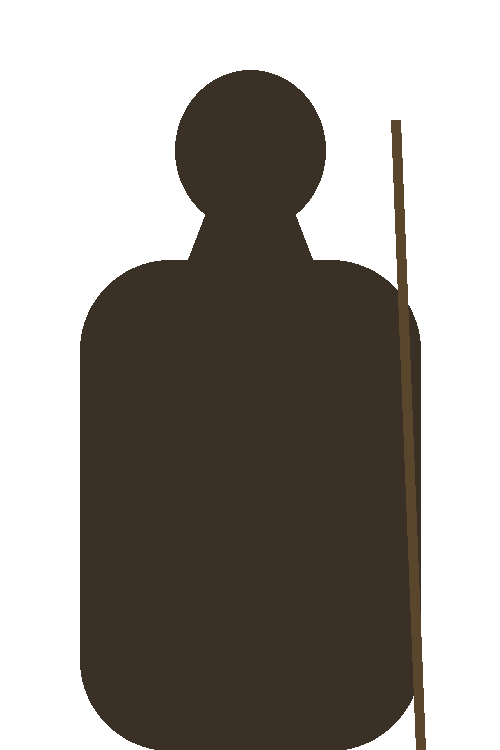
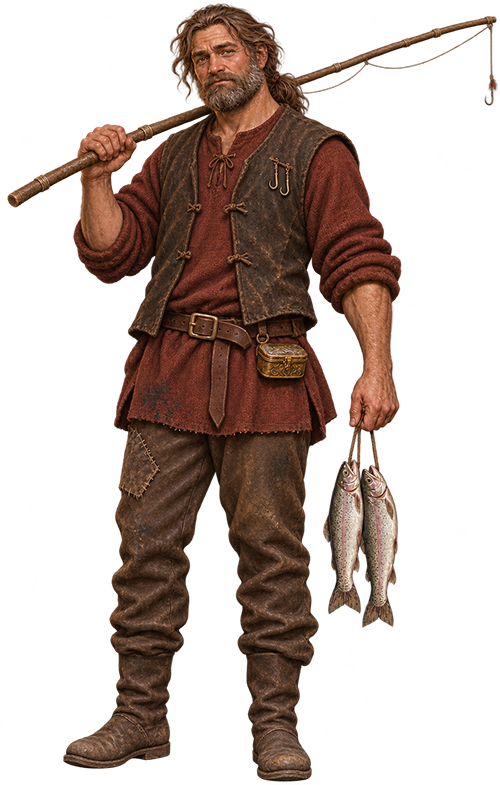
Ewan Hartwood's real art; Luck removed (fishing keeps starting odds, loot/chest gold unscaled, the D3 well just heals)
Claude-Session: https://claude.ai/code/session_014Hg99m5XhcQTxVAKJWtn27

diff --git a/js/main.js b/js/main.js
@@ -31,17 +31,14 @@ import * as battle from './battle.js';
 
 // Attack/Defense/Speed start at 1/1/1 (Danny's spec) — real combat stats.
 // Speed drives battle.js's turn order + the player's initiative chance
-// (Speed 1 -> 50% to act first, 2 -> 75%, 3 -> 100%). Luck is a NON-COMBAT
-// probability bonus (2026-07-31 rework — see luckChance() below): +10% per
-// point to fishing's rare-catch odds and to battle loot (gold haul + item
-// drop chance). Luck starts at 1 (2026-09-11, Danny — was 0), raised further
-// only by the D3 well's one-time coin-toss (+1 Luck, to 2) — still the only
-// way to raise it as of this date.
+// (Speed 1 -> 50% to act first, 2 -> 75%, 3 -> 100%). Luck was REMOVED from
+// the game on 2026-11-17 (Danny: it wasn't doing much); fishing keeps the odds
+// a starting player had, loot and chest gold have no bonus any more.
 // Level/XP removed 2026-07-22 (Danny) — the game has no experience/leveling
 // loop; progression is gear-driven (weapons/armor + vitality potions).
 const stats = {
   health: 5, healthMax: 5, magic: 0, magicMax: 5, gold: 0,
-  attack: 1, defense: 1, speed: 1, luck: 1,
+  attack: 1, defense: 1, speed: 1,
 };
 // The canonical fresh-start stats, used to reset on New Game (2026-07-22).
 const NEW_GAME_STATS = { ...stats };
@@ -183,23 +180,9 @@ function equipmentBonus(field) {
     return sum + (ITEMS[id]?.[field] || 0);
   }, 0);
 }
-// Attack/Defense scores are base stat + equipped gear only. Luck is NO LONGER a
-// combat modifier (2026-07-31, Danny) — it now only affects non-combat
-// PERCENTAGE-CHANCE mechanics (fishing catch odds, battle loot). See luckChance().
+// Attack/Defense scores are base stat + equipped gear only.
 function effectiveAttack() { return stats.attack + equipmentBonus('attackBonus'); }
 function effectiveDefense() { return stats.defense + equipmentBonus('defenseBonus'); }
-// Luck as a probability bonus: +10% (0.10) per point, applied to EVERY
-// non-combat chance (2026-10-20, Danny — audited):
-//   - fishing: rare catches (boot, Moonscale Trout, Crimson Sailback) get +10
-//     percentage points per Luck point (rollCatch);
-//   - enemy loot: +10 points per Luck point on every item's drop chance, and
-//     enemy gold x(1 + 0.10*Luck) (computeBattleRewards);
-//   - chest gold rolled from a {min,max} range: x(1 + 0.10*Luck) (World.goldLuck).
-// Fixed amounts (a chest's set gold, hidden coin glints, quest rewards) aren't
-// chance rolls and stay as designed. Combat rolls (to-hit, damage, initiative,
-// enchant procs) never use Luck.
-function luckChance() { return stats.luck * 0.10; }
-World.goldLuck = luckChance;
 // Speed including gear (leather boots' speedBonus, 2026-07-26). Capped at 3
 // (the movement/initiative curves top out there). Drives BOTH overworld
 // movement (moveMultForSpeed) and battle initiative (playerInitiativeChance).
@@ -209,11 +192,11 @@ function effectiveSpeed() { return Math.min(3, stats.speed + equipmentBonus('spe
 // panel used to show the raw base stats, so a player wearing +1 armor still saw
 // "Defense 1". Combat already uses the effective values (effectiveAttack/Defense
 // /Speed) — this just makes the display agree. Shows the effective total plus a
-// "(+N)" gear contribution. Luck is unchanged (no gear affects it yet).
+// "(+N)" gear contribution.
 function refreshStatsPanel() {
   const eA = effectiveAttack(), eD = effectiveDefense(), eS = effectiveSpeed();
   ui.updateStatsPanel({
-    attack: eA, defense: eD, speed: eS, luck: stats.luck,
+    attack: eA, defense: eD, speed: eS,
     attackBonus: eA - stats.attack, defenseBonus: eD - stats.defense, speedBonus: eS - stats.speed,
   });
   refreshDamagePanel(); // 2026-09-11: keep the new Damage subsection in sync too
@@ -1020,7 +1003,7 @@ async function boot() {
         inventory: inventory.map((e) => ({ ...e })),
         equipment: { ...equipment },
         quests: quests.map((q) => ({ ...q })),
-        flags: { campQuestDone, campHostile, campTollTier, gafferHappy, thrumhornFed, clucksworthFed, eggathaFed, orrisRescued, orrisDeparted, wellCoinThrown, wellDrinks, vegetableDeliveredToTavern, mirelleStage, mirelleOutcome, calderToldStory, calderToldDangers, maraMet, maraToldTruth, lilyGullThanked, magicRevealed, maraHollowmastRescued, lockboxAcceptedFrom, lockboxGivenTo , ferrySide, lakewardenPaid, arjunMet, adeMet, nkemiStone, nkemiStaff, visitedTowns: [...visitedTowns] },
+        flags: { campQuestDone, campHostile, campTollTier, gafferHappy, thrumhornFed, clucksworthFed, eggathaFed, orrisRescued, orrisDeparted, wellDrinks, vegetableDeliveredToTavern, mirelleStage, mirelleOutcome, calderToldStory, calderToldDangers, maraMet, maraToldTruth, lilyGullThanked, magicRevealed, maraHollowmastRescued, lockboxAcceptedFrom, lockboxGivenTo , ferrySide, lakewardenPaid, arjunMet, adeMet, nkemiStone, nkemiStaff, visitedTowns: [...visitedTowns] },
         caveReturn, // where to exit to if saved inside a cave/dungeon
         worlds: snapshotWorlds(),
       };
@@ -1120,7 +1103,7 @@ async function boot() {
     quests.length = 0;
     campTollPaid = false; campEntered = false; campQuestDone = false;
     campHostile = false; campEntryGate = null; campTollTier = 0;
-    gafferHappy = false; thrumhornFed = false; clucksworthFed = false; eggathaFed = false; orrisRescued = false; orrisDeparted = false; orrisLeaving = false; wellCoinThrown = false; wellDrinks = 0; vegetableDeliveredToTavern = false; mirelleStage = 1; mirelleOutcome = null;
+    gafferHappy = false; thrumhornFed = false; clucksworthFed = false; eggathaFed = false; orrisRescued = false; orrisDeparted = false; orrisLeaving = false; wellDrinks = 0; vegetableDeliveredToTavern = false; mirelleStage = 1; mirelleOutcome = null;
     ferrySide = 'mainland'; // the C3 raft starts moored on the near shore
     lakewardenPaid = false;
     calderToldStory = false; calderToldDangers = false; maraMet = false; maraToldTruth = null;
@@ -1157,6 +1140,7 @@ async function boot() {
     // shape changes and old saves get cleanly rejected instead.
     if (data.v !== SAVE_VERSION) return false;
     Object.assign(stats, NEW_GAME_STATS, data.stats || {});
+    delete stats.luck; // Luck was removed 2026-11-17; older saves still carry it
     inventory.length = 0; (data.inventory || []).forEach((e) => inventory.push({ ...e }));
     for (const k of Object.keys(equipment)) equipment[k] = null;
     Object.assign(equipment, data.equipment || {});
@@ -1164,7 +1148,7 @@ async function boot() {
     const f = data.flags || {};
     campQuestDone = !!f.campQuestDone; campHostile = !!f.campHostile;
     campTollTier = f.campTollTier || 0;
-    gafferHappy = !!f.gafferHappy; thrumhornFed = !!f.thrumhornFed; clucksworthFed = !!f.clucksworthFed; eggathaFed = !!f.eggathaFed; orrisRescued = !!f.orrisRescued; orrisDeparted = !!f.orrisDeparted; orrisLeaving = false; wellCoinThrown = !!f.wellCoinThrown;
+    gafferHappy = !!f.gafferHappy; thrumhornFed = !!f.thrumhornFed; clucksworthFed = !!f.clucksworthFed; eggathaFed = !!f.eggathaFed; orrisRescued = !!f.orrisRescued; orrisDeparted = !!f.orrisDeparted; orrisLeaving = false;
     ferrySide = f.ferrySide === 'island' ? 'island' : 'mainland';
     lakewardenPaid = !!f.lakewardenPaid;
     wellDrinks = f.wellDrinks || 0;
@@ -1450,10 +1434,6 @@ async function boot() {
   // the player, teaching Flee + the give-up-when-far mechanic (2026-07-26).
   let creatureFleeHintShown = false;
 
-  // The D3 well's coin-for-luck offer is one-time per session (like gafferHappy,
-  // not persisted). Tossing a coin for +1 Luck can only happen once. See
-  // openWellDialog().
-  let wellCoinThrown = false;
   // Drinking is limited: the well runs dry after WELL_MAX_DRINKS drinks
   // (2026-07-28, Danny). Persisted in the save flags so the total carries across
   // sessions ("after drinking 5 times in the game").
@@ -5609,16 +5589,12 @@ async function boot() {
   function computeBattleRewards(enemies) {
     let gold = 0;
     const items = {};
-    // LUCK (2026-07-31, Danny): +10% per point to the gold haul AND to every
-    // item's drop chance (a non-combat probability bonus — luck no longer touches
-    // combat rolls). luckChance() = luck*0.10.
-    const luck = luckChance();
     for (const e of enemies) {
       const drops = ENEMIES[e.id]?.drops;
       if (!drops) continue;
-      if (drops.gold) gold += Math.round(randInt(drops.gold.min, drops.gold.max) * (1 + luck));
+      if (drops.gold) gold += randInt(drops.gold.min, drops.gold.max);
       for (const l of drops.loot || []) {
-        const chance = Math.min(1, (l.chance ?? 1) + luck);
+        const chance = Math.min(1, l.chance ?? 1);
         if (Math.random() <= chance) items[l.id] = (items[l.id] || 0) + (l.qty || 1);
       }
     }
@@ -5696,14 +5672,11 @@ async function boot() {
   };
 
   // The D3 well: a dialogue-style window (Water well.png in the portrait slot,
-  // name "Well") offering a repeatable drink (+1 HP) and a one-time coin toss
-  // (+1 Luck) that costs 1 gold. State-built like Gaffer/Chief — the coin option
-  // drops out of the response list once used (wellCoinThrown). The onResponse
-  // callback returns true to keep the window open after drinking/tossing so the
-  // player can act again; 'Leave.' returns falsy and closes it. Tossing with an
-  // empty purse plays the denied sound and leaves the offer standing.
+  // name "Well") offering a drink (+1 HP) until it runs dry after
+  // WELL_MAX_DRINKS. The coin toss for +1 Luck was removed with Luck
+  // (2026-11-17). onResponse returns true to keep the window open after a
+  // drink; 'Leave.' returns falsy and closes it.
   const WELL_LINE = 'The old well sits cool and still, its water dark and deep beneath the mossy stones.';
-  const WELL_COIN_COST = 1;
   const WELL_MAX_DRINKS = 5; // the well runs dry after this many drinks (2026-07-28)
   // Readable headstones (B1's graveyard, 2026-11-16): an interactable with
   // `headstone: true` + `inscription` opens a text-only window with the
@@ -5721,7 +5694,6 @@ async function boot() {
       const acts = [];
       // Drinking is offered only until the well runs dry.
       if (wellDrinks < WELL_MAX_DRINKS) { responses.push('Take a drink.'); acts.push('drink'); }
-      if (!wellCoinThrown) { responses.push('Throw a coin in.'); acts.push('coin'); }
       responses.push('Leave.'); acts.push('leave');
       return { responses, acts };
     };
@@ -5752,29 +5724,6 @@ async function boot() {
         }
         ({ responses, acts } = buildActs());
         ui.updateDialogContent({ line, responses });
-        return true;
-      }
-      if (act === 'coin') {
-        if (stats.gold < WELL_COIN_COST) {
-          audio.sfx(audio.SFX.denied);
-          ({ responses, acts } = buildActs());
-          ui.updateDialogContent({
-            line: 'You reach for a coin — but your purse is empty. The well keeps its favor for now.',
-            responses,
-          });
-          return true;
-        }
-        // Set the flag + luck BEFORE spending — spendGold's autosave then
-        // captures them, so a Continue can't re-toss for another Luck point.
-        wellCoinThrown = true;
-        stats.luck += 1;
-        spendGold(WELL_COIN_COST); // deducts 1 gold + plays the coin clink (+ autosave)
-        refreshStatsPanel();
-        ({ responses, acts } = buildActs());
-        ui.updateDialogContent({
-          line: 'You flip a coin into the dark. A faint plink echoes up — and a strange sense of fortune settles over you. (Luck +1.)',
-          responses,
-        });
         return true;
       }
       return; // Leave — falsy closes the window
@@ -5907,56 +5856,23 @@ async function boot() {
     if (spot) startFishing(spot);
   }
 
-  // Weighted catch table (2026-07-16, Danny's odds). LUCK raises the Moonscale
-  // Trout chance by +10% per point (2026-07-31, Danny): base 10% → 20% at Luck 1,
-  // 30% at Luck 2, and so on (capped at 70%). Roll the Moonscale first at that
-  // boosted chance; otherwise fall through to the ordinary catches in their
-  // original 50:30:10 weighting.
-  // Reworked 2026-10-10 (Danny: nobody was ever catching a boot). The boot
-  // used to be the last slice of the ORDINARY table, AFTER the luck-boosted
-  // Moonscale roll — so it was only ~8.9% at Luck 1 and every point of Luck
-  // shaved it further (7.8% at Luck 2). With bait capped at a handful per
-  // playthrough, about half of players never saw one. Now the boot is rolled
-  // FIRST at a flat BOOT_CHANCE that Luck never touches; Luck only trades
-  // ordinary fish for the Moonscale Trout.
-  // Reworked again 2026-10-20 (Danny: Luck should raise the odds of EVERY rare
-  // catch, boots included). The boot is still rolled first, but now at
-  // 5% + 10 points per Luck point (capped 40%), so a starting Luck-1 player
-  // sees exactly the old 15% and each extra point adds 10.
-  //   Luck 1: boot 15%, Moonscale 17%, trout ~43%, bluegill ~26%
-  //   Luck 2: boot 25%, Moonscale ~22.5%, trout ~33%, bluegill ~20%
-  const BOOT_BASE = 5, BOOT_CAP = 40;   // percent at Luck 0, and the ceiling
-  const MOON_BASE = 10, MOON_CAP = 70;
-  function luckPoints() { return luckChance() * 100; } // +10 percentage points per Luck
+  // Weighted catch table (2026-07-16, Danny's odds; Luck removed 2026-11-17,
+  // keeping the odds a starting player had). The old boot is rolled first at
+  // BOOT_CHANCE, then the Moonscale at MOON_CHANCE of what's left, then trout
+  // or bluegill 5:3: boot 15%, Moonscale 17%, trout ~43%, bluegill ~26%.
+  const BOOT_CHANCE = 15, MOON_CHANCE = 20; // percent
   function rollCatch() {
     // A scene can carry its own catch table (2026-10-11: the sea spots in
-    // C1/D1). It replaces the freshwater table entirely. Entries with a
-    // `luckBonus` are rare catches: their `weight` is the percent chance at
-    // Luck 0 and each Luck point adds `luckBonus` percentage points (capped
-    // at `luckCap`, default 70); the other entries share whatever is left in
-    // proportion to their weights (2026-10-20).
+    // C1/D1); it replaces the freshwater table entirely. Plain weighted pick.
     const table = world.scene.fishingCatch;
     if (table && table.length) {
-      const lp = luckChance() * 10; // Luck points
-      const rare = table.filter((e) => e.luckBonus);
-      const common = table.filter((e) => !e.luckBonus);
-      const pct = new Map();
-      let rareTotal = 0;
-      for (const e of rare) { const p = Math.min(e.luckCap ?? 70, e.weight + lp * e.luckBonus); pct.set(e, p); rareTotal += p; }
-      if (rareTotal > 95) { const k = 95 / rareTotal; for (const e of rare) pct.set(e, pct.get(e) * k); rareTotal = 95; }
-      if (rare.length) {
-        const cw = common.reduce((s, e) => s + e.weight, 0) || 1;
-        for (const e of common) pct.set(e, (100 - rareTotal) * e.weight / cw);
-      } else for (const e of table) pct.set(e, e.weight);
-      const total = table.reduce((s, e) => s + pct.get(e), 0);
+      const total = table.reduce((s, e) => s + e.weight, 0);
       let r = Math.random() * total;
-      for (const e of table) { if ((r -= pct.get(e)) < 0) return e.id; }
+      for (const e of table) { if ((r -= e.weight) < 0) return e.id; }
       return table[table.length - 1].id;
     }
-    const boot = Math.min(BOOT_CAP, BOOT_BASE + luckPoints());
-    if (Math.random() * 100 < boot) return 'old_boot';
-    const moon = Math.min(MOON_CAP, MOON_BASE + luckPoints());
-    if (Math.random() * 100 < moon) return 'rare_fish';
+    if (Math.random() * 100 < BOOT_CHANCE) return 'old_boot';
+    if (Math.random() * 100 < MOON_CHANCE) return 'rare_fish';
     return Math.random() * 80 < 50 ? 'trout' : 'bluegill';
   }
 
@@ -5965,13 +5881,12 @@ async function boot() {
   let fishing = false;
   const FISH_MS = 10000;
   // The rarest catch at the current spot (2026-11-17, for Ewan's special bait): in a
-  // scene with its own catch table, the rare (luckBonus) entry with the lowest
+  // scene with its own catch table, the entry with the lowest weight
   // base weight, else the lowest-weight entry; in fresh water, the Moonscale.
   function rarestCatch() {
     const table = world.scene.fishingCatch;
     if (table && table.length) {
-      const pool = table.some((e) => e.luckBonus) ? table.filter((e) => e.luckBonus) : table;
-      return pool.reduce((a, e) => (e.weight < a.weight ? e : a)).id;
+      return table.reduce((a, e) => (e.weight < a.weight ? e : a)).id;
     }
     return 'rare_fish';
   }

diff --git a/index.html b/index.html
@@ -212,15 +212,10 @@
             </section>
             <section class="tab-pane hidden" data-pane="stats">
               <!-- Level/XP removed 2026-07-22 (Danny) — progression is
-                   gear-driven, not level-driven. Luck is SHOWN (2026-07-20)
-                   but is a NON-COMBAT probability bonus as of 2026-07-31 (see
-                   main.js's luckChance()) — +10%/point to every rare fishing
-                   catch, enemy loot and gold, and ranged chest gold; never to
-                   attack/defense rolls. -->
+                   gear-driven, not level-driven. Luck was removed 2026-11-17. -->
               <div class="stat-row"><span class="stat-label">Attack</span><span class="stat-value" id="stat-attack">1</span></div>
               <div class="stat-row"><span class="stat-label">Defense</span><span class="stat-value" id="stat-defense">1</span></div>
               <div class="stat-row"><span class="stat-label">Speed</span><span class="stat-value" id="stat-speed">1</span></div>
-              <div class="stat-row"><span class="stat-label">Luck</span><span class="stat-value" id="stat-luck">1</span></div>
               <!-- Damage subsection (2026-09-11, Danny): what's equipped in
                    each hand (or Unarmed) + its damage, plus Magic (no spell
                    system yet) — populated by ui.js's updateDamagePanel(),

diff --git a/js/world.js b/js/world.js
@@ -144,8 +144,6 @@ export class World {
     return { river: wd.riverDist ? wd.riverDist[i] : Infinity, sea: wd.seaDist ? wd.seaDist[i] : Infinity };
   }
 
-  // main.js sets this to luckChance() (0.10 per Luck point); scales ranged chest gold.
-  static goldLuck = () => 0;
   constructor(canvas, scene, images) {
     this.canvas = canvas;
     this.ctx = canvas.getContext('2d');
@@ -225,10 +223,8 @@ export class World {
       locked: !!c.locked,
       // gold can be a fixed number or a {min,max} range rolled once at world
       // build (persisted via the save snapshot, so it doesn't reroll on revisit).
-      // Luck (2026-10-20): a ranged roll is scaled x(1 + 0.10*Luck), the same
-      // rule as enemy gold; a fixed amount is left as designed.
       gold: (c.gold && typeof c.gold === 'object')
-        ? Math.round((Math.floor(Math.random() * (c.gold.max - c.gold.min + 1)) + c.gold.min) * (1 + World.goldLuck()))
+        ? Math.floor(Math.random() * (c.gold.max - c.gold.min + 1)) + c.gold.min
         : (c.gold || 0),
       items: (c.items || []).map((it) => ({ ...it })),
       emptied: false,

diff --git a/js/data/c1.js b/js/data/c1.js
@@ -856,14 +856,11 @@ export default {
     { x: 595, y: 2751 },
   ],
   // Saltwater catch table (2026-10-11, Danny): every cast here lands a sea
-  // bass (75%) or a crimson sailback (25%) at Luck 1 — no boot, no Moonscale.
-  // Read by main.js's rollCatch.
-  // Luck-scaled (2026-10-20, Danny): the sailback's weight is its chance at
-  // Luck 0 (15%) and each Luck point adds 10 points, so a starting Luck-1
-  // player still sees 75/25, Luck 2 sees 65/35. See main.js's rollCatch.
+  // bass (75%) or a crimson sailback (25%), no boot, no Moonscale. Weights are
+  // percentages (Luck removed 2026-11-17). Read by main.js's rollCatch.
   fishingCatch: [
-    { id: 'sea_bass', weight: 85 },
-    { id: 'crimson_sailback', weight: 15, luckBonus: 10 },
+    { id: 'sea_bass', weight: 75 },
+    { id: 'crimson_sailback', weight: 25 },
   ],
 
   chests: [],

diff --git a/js/data/d1.js b/js/data/d1.js
@@ -658,13 +658,12 @@ export default {
     { x: 680, y: 630 },
     { x: 120, y: 2140 },
   ],
-  // Same saltwater table as C1 — sea bass 75%, crimson sailback 25% at Luck 1.
-  // Luck-scaled (2026-10-20, Danny): the sailback's weight is its chance at
-  // Luck 0 (15%) and each Luck point adds 10 points, so a starting Luck-1
-  // player still sees 75/25, Luck 2 sees 65/35. See main.js's rollCatch.
+  // Saltwater catch table (2026-10-11, Danny): every cast here lands a sea
+  // bass (75%) or a crimson sailback (25%), no boot, no Moonscale. Weights are
+  // percentages (Luck removed 2026-11-17). Read by main.js's rollCatch.
   fishingCatch: [
-    { id: 'sea_bass', weight: 85 },
-    { id: 'crimson_sailback', weight: 15, luckBonus: 10 },
+    { id: 'sea_bass', weight: 75 },
+    { id: 'crimson_sailback', weight: 25 },
   ],
 
   chests: [

diff --git a/js/data/d3.js b/js/data/d3.js
@@ -253,8 +253,8 @@ export default {
       reward: { gold: 3 },
     },
     // The well (2026-07-21): not a pickup — `well: true` makes main.js's
-    // interact() open a dialogue window (drink for +1 HP anytime; toss a coin
-    // for +1 Luck, once). Label 'Well' rides on this object so it shows exactly
+    // interact() open a dialogue window (drink for +1 HP until it runs dry;
+    // the coin toss for Luck was removed with Luck, 2026-11-17). Label 'Well' rides on this object so it shows exactly
     // when interactable. Anchor is the well's centre (matching the old building
     // label spot); range 130 reaches the path band just south and the x400-450
     // gap to its east — validated walkable with the 36px collider.

diff --git a/js/ui.js b/js/ui.js
@@ -1660,7 +1660,6 @@ export function updateStatsPanel(stats) {
   $('stat-attack').textContent = stats.attack;
   $('stat-defense').textContent = stats.defense;
   $('stat-speed').textContent = stats.speed;
-  $('stat-luck').textContent = stats.luck;
 }
 
 // ---- Stats tab > Damage subsection (2026-09-11, Danny) ----

diff --git a/CLAUDE.md b/CLAUDE.md
@@ -2111,9 +2111,18 @@ Twelve NPCs from Danny's art (roster + prompts in the "West Kingsreach (B1) — 
 ## B4: Ewan Hartwood replaces Dame Elspeth; the burning chasm; special fishing bait (2026-11-17)
 
 - **Dame Elspeth Varrick removed from B4, kept for the castle** (see the REMINDER at the top of Status / roadmap). Her entry lives in the new `js/data/reserve.js` (`RESERVED_NPCS`, not imported). Kingsreach's Rowena still names her as the most likely surviving rider, which still fits.
-- **Ewan Hartwood, woodsman** (`ewan_hartwood`, human, male: B4 is now 5 men / 5 women) in her spot by the river camp. His cabin east of the camp was swallowed by the burning chasm, so he lives in the tent and fishes. Patrols the camp (bank above the tent → round the fire pit, 5 points, every leg checked clear). **Homeless vendor:** trout 3, bluegill 2, **special fishing bait 3**, purse 25. Voice: the mrstokes "hmmm". **His portrait/overhead are PLACEHOLDERS** (plain silhouettes) until Danny's art lands; replace `ewan_hartwood.png` (500x750) / `ewan_hartwood_overhead.png` (54x54).
+- **Ewan Hartwood, woodsman** (`ewan_hartwood`, human, male: B4 is now 5 men / 5 women) in her spot by the river camp. His cabin east of the camp was swallowed by the burning chasm, so he lives in the tent and fishes. Patrols the camp (bank above the tent → round the fire pit, 5 points, every leg checked clear). **Homeless vendor:** trout 3, bluegill 2, **special fishing bait 3**, purse 25. Voice: the mrstokes "hmmm". Art: Danny's `ewan_hartwood.png` (500x785) / `ewan_hartwood_overhead.png` (54x54), in since 2026-11-17 (the placeholders are gone).
 - **Special Fishing Bait** (`special_fishing_bait`, items.js, price 20, Danny's art `special_fishing_bait.png`, resized 1254→500): bait that always lands **the rarest catch at that spot** — `main.js`'s `rarestCatch()`: the Moonscale Trout in fresh water; in a scene with its own `fishingCatch` table, the rare (`luckBonus`) entry with the lowest base weight (the Crimson Sailback in C1/D1). Never a boot. Only 3 exist (Ewan's stock).
 - **Fishing asks which bait** when the player carries special fishing bait (`startFishing` opens a portrait-less "Fishing" dialog: Use fishing bait / Use the special bait / Not now); without grubs nothing changes. The cast itself moved into `castLine(spot, bait)`. Having only special bait (no ordinary bait) is enough to fish.
 - **New B4 fishing spot** on the river above Ewan's camp (540,1990), fished from the bank ~97px east. Freshwater table.
 - **The chasm** (south-east clearing, crack ~2200,2420 → 2580,2200): six code-drawn fires along the crack (scale 2.0-2.6) and six smoke plumes off both rims (heavier than chimney smoke: alpha 0.32-0.38, rise 250-300). The fire crackle ambience comes with them automatically. Still scenery only (no fire creatures yet).
 - **Verified:** `_verify_b3b4` ALL OK (Ewan's worst idle = the 5s patrol pause, visits all 5 points in a 900s sim); the fishing bank is standable and in range; headless Chromium with an injected save (rod + bait + 2 special bait at the bank): the bait question shows with no portrait, choosing the special bait spends one and lands a Moonscale Trout; Ewan's Buy/Sell + chatter; chasm fires and smoke render; no console errors.
+
+## Luck removed from the game (2026-11-17)
+
+Danny: the stat wasn't doing much. **This supersedes every Luck note above** (the 2026-07-31 rework, the 2026-10-20 "Luck applies to every non-combat chance roll" section, the well's coin toss, the Stats tab row, the stats bullet in Status / roadmap).
+- `stats.luck`, `luckChance()`, `World.goldLuck` and the Stats tab's Luck row are gone. `loadGame` deletes `luck` from older saves' stats.
+- **Fishing keeps the odds a starting player had:** fresh water = old boot 15% (`BOOT_CHANCE`), then Moonscale 20% of the rest (`MOON_CHANCE`, 17% overall), then trout/bluegill 5:3. Sea spots (C1, D1): `fishingCatch` is now plain percentage weights, sea bass 75 / crimson sailback 25; the `luckBonus`/`luckCap` fields are gone. `rarestCatch()` (special bait) picks the lowest-weight entry.
+- **Loot and chest gold have no bonus any more:** enemy drops are exactly the enemies.js chances and gold ranges (a starting player had +10 points per drop and +10% gold before), ranged chest gold is a plain roll.
+- **The D3 well** just offers "Take a drink." (+1 HP) until it runs dry after 5 drinks. The coin toss and the `wellCoinThrown` flag are gone (old saves' flag is ignored).
+- Verified in headless Chromium: New Game stats have no luck, a save with `luck: 2` loads without it, the Stats tab shows Attack/Defense/Speed only, the well heals with no coin option, a battle win shows spoils, no console errors.
